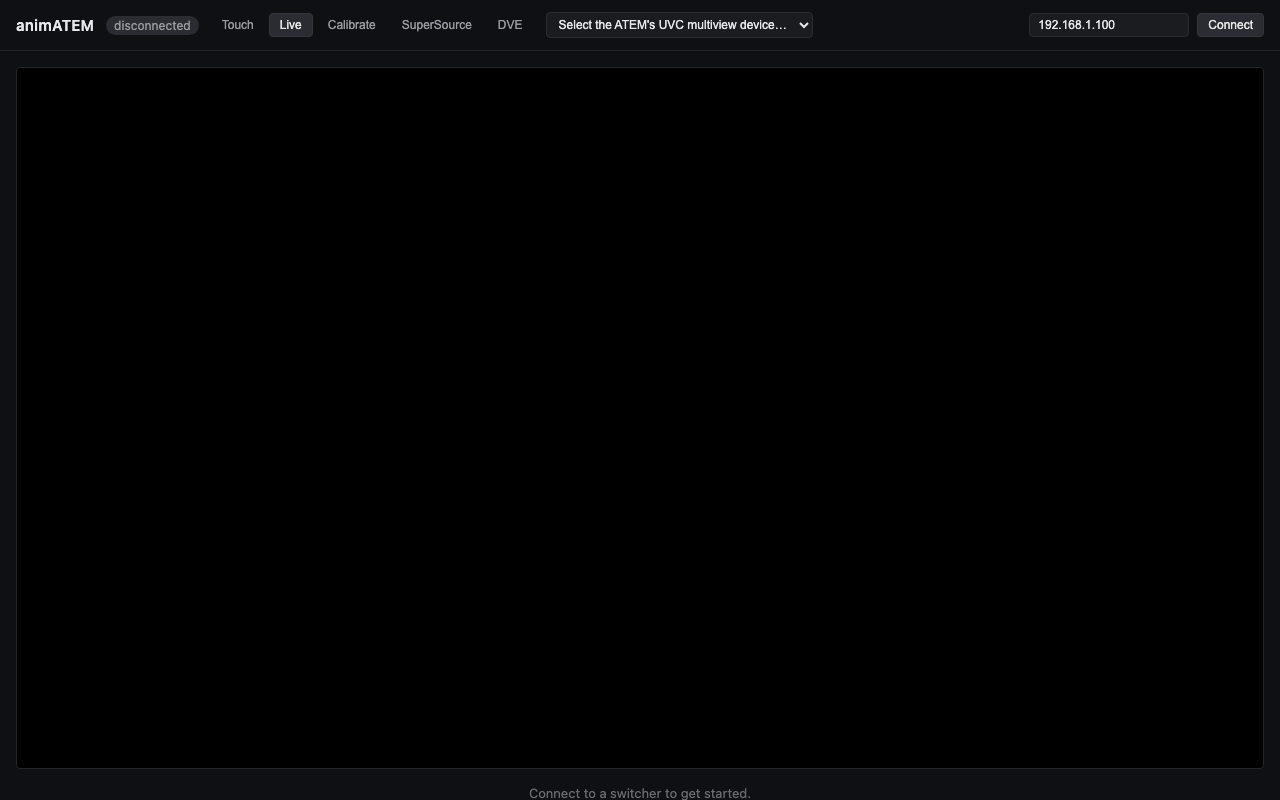
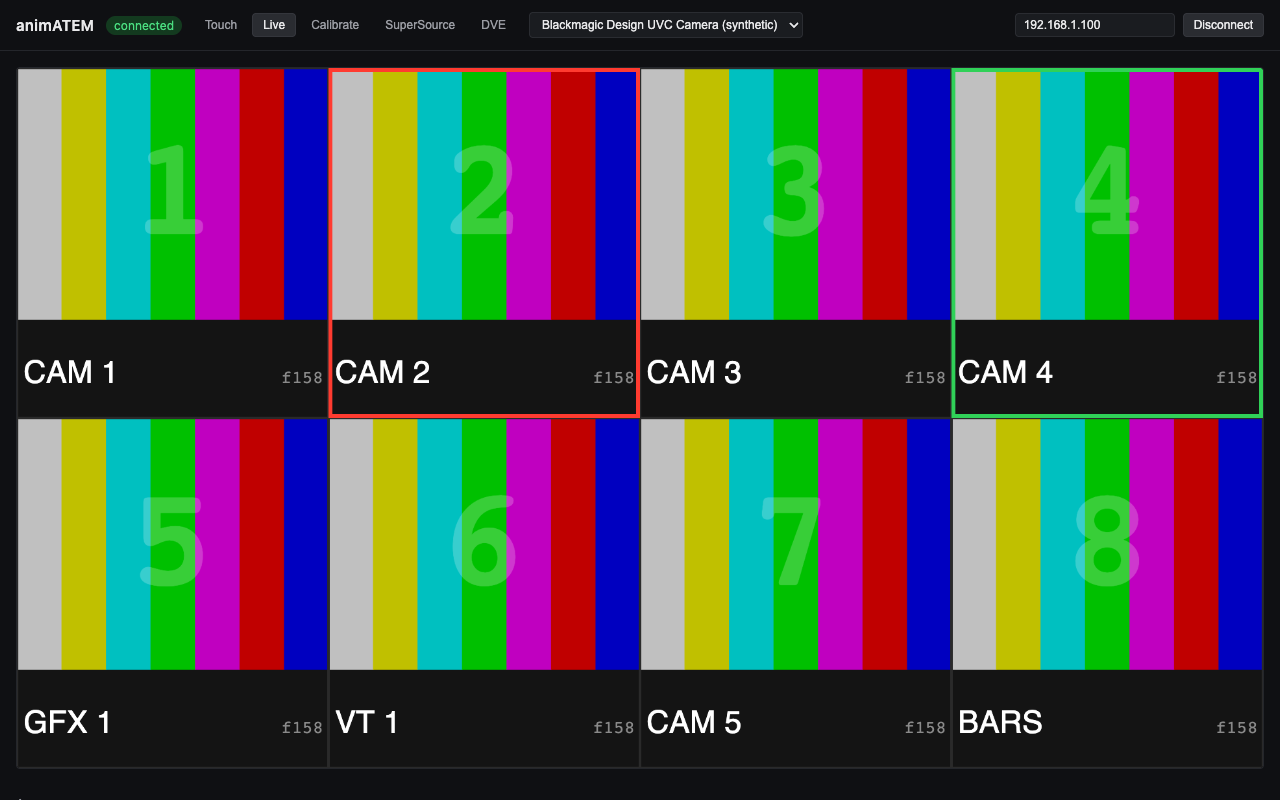
Regenerate README screenshots with synthetic test-pattern graphics
Replaces the old screenshots (taken against a generic webcam feed) with
a fresh set showing the current UI, including the auto-create-boxes
calibration flow. Multiview boxes use a synthetic colour-bar/number
test pattern instead of real captured video, so the screenshots don't
depend on ATEM hardware or camera access — generated via a throwaway
dev-only harness (fixture window.api + a canvas-based fake UVC device)
that was deleted after use, not committed.

diff --git a/README.md b/README.md
@@ -30,13 +30,15 @@ program/preview input.
 
 ## Screenshots
 
+The multiview boxes below are a synthetic test-pattern feed (colour bars, big numbers, source labels), not a real ATEM's output — a stand-in so these screenshots don't depend on hardware being connected. Everything else — the app chrome, data tables, and layouts — is the real UI.
+
 The touchscreen operator view — a composited multiview with tap-to-select regions and a function key row below it:
 
 ![Touch tab: composited multiview canvas with Tap → PVW/PGM, Cut, Auto, FTB, and Kiosk function keys](docs/screenshots/touch.png)
 
-The calibration screen, where an operator draws each multiview box's region once per capture resolution:
+The calibration screen, where an operator draws each multiview box's region once per capture resolution — or auto-creates a starting grid sized to the live window count and drags boxes/corners into place:
 
-![Calibrate tab: instructions and a canvas for drawing multiview box regions, with a window/live-source table below](docs/screenshots/calibrate.png)
+![Calibrate tab: instructions, an auto-create-boxes button, a canvas showing calibrated multiview box regions, and a window/live-source table below](docs/screenshots/calibrate.png)
 
 The SuperSource editor — Program (live) and Preview (editable, drag to move/resize) panes side by side, plus the memory bank:
 
